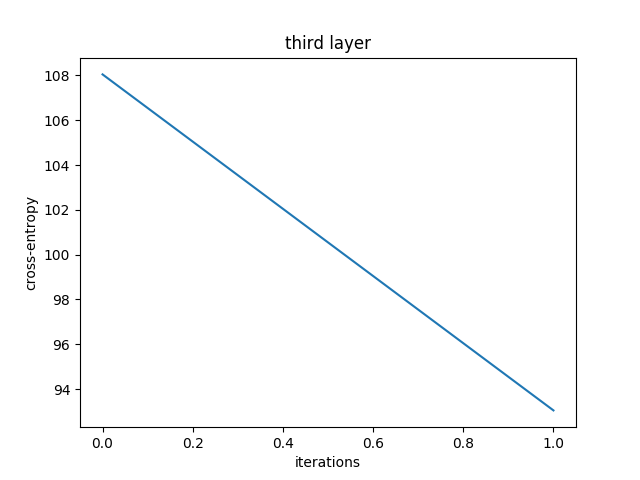
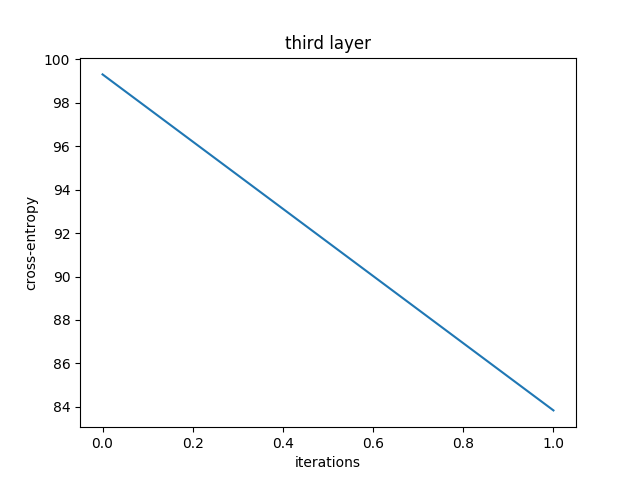
almost works i think

Changed region(s): [[0.0625, 0.0938, 0.125, 0.625], [0.0625, 0.6562, 0.125, 0.875]]

diff --git a/project_2/src/part_b/main.py b/project_2/src/part_b/main.py
@@ -27,7 +27,7 @@ trX, trY = trX[:12000], trY[:12000]
 teX, teY = teX[:2000], teY[:2000]
 
 x = T.fmatrix('x')
-d = T.fmatrix('d')
+d1 = T.fmatrix('d1')
 
 rng = np.random.RandomState(123)
 theano_rng = RandomStreams(rng.randint(2 ** 30))
@@ -55,34 +55,50 @@ b3 = init_bias(400)
 
 b3_prime = init_bias(625)
 W3_prime = W3.transpose()
+#fourth layer
+W4 = init_weights(400, 100)
+b4 = init_bias(100)
+
+b4_prime = init_bias(400)
+W4_prime = W4.transpose()
 #output
-W_end = init_weights(900, 10)
-b_end = init_bias(10)
+W_ffn = init_weights(100, 10)
+b_ffn = init_bias(10)
 
 print("lmao familicious fam")
 
-#tilde_x = theano_rng.binomial(size=x.shape, n=1, p=1 - corruption_level,
-#                              dtype=theano.config.floatX)*x
+tilde_x = theano_rng.binomial(size=x.shape, n=1, p=1 - corruption_level,
+                              dtype=theano.config.floatX)*x
 y1 = T.nnet.sigmoid(T.dot(x, W1) + b1)
 z1_1 = T.nnet.sigmoid(T.dot(y1, W1_prime) + b1_prime)
 cost1 = - T.mean(T.sum(x * T.log(z1_1) + (1 - x) * T.log(1 - z1_1), axis=1))
 
 yy1 = T.fmatrix('yy1')
-#tilde_y1 = theano_rng.binomial(size=yy1.shape, n=1, p=1 - corruption_level,
-#                              dtype=theano.config.floatX)*yy1
-y2 = T.nnet.sigmoid(T.dot(yy1, W2) + b2)
+tilde_y1 = theano_rng.binomial(size=yy1.shape, n=1, p=1 - corruption_level,
+                              dtype=theano.config.floatX)*yy1
+y2 = T.nnet.sigmoid(T.dot(tilde_y1, W2) + b2)
 z2_2 = T.nnet.sigmoid(T.dot(y2, W2_prime) + b2_prime)
 z1_2 = T.nnet.sigmoid(T.dot(z2_2, W1_prime) + b1_prime)
 cost2 = - T.mean(T.sum(x * T.log(z1_2) + (1 - x) * T.log(1 - z1_2), axis=1))
 
 yy2 = T.fmatrix('yy2')
-#tilde_y2 = theano_rng.binomial(size=yy2.shape, n=1, p=1 - corruption_level,
-#                              dtype=theano.config.floatX)*yy2
-y3 = T.nnet.sigmoid(T.dot(yy2, W3) + b3)
+tilde_y2 = theano_rng.binomial(size=yy2.shape, n=1, p=1 - corruption_level,
+                              dtype=theano.config.floatX)*yy2
+y3 = T.nnet.sigmoid(T.dot(tilde_y2, W3) + b3)
 z3_3 = T.nnet.sigmoid(T.dot(y3, W3_prime) + b3_prime)
 z2_3 = T.nnet.sigmoid(T.dot(z3_3, W2_prime) + b2_prime)
 z1_3 = T.nnet.sigmoid(T.dot(z2_3, W1_prime) + b1_prime)
 cost3 = - T.mean(T.sum(x * T.log(z1_3) + (1 - x) * T.log(1 - z1_3), axis=1))
+
+yy3 = T.fmatrix('yy3')
+tilde_y3 = theano_rng.binomial(size=yy3.shape, n=1, p=1 - corruption_level,
+                              dtype=theano.config.floatX)*yy3
+y4 = T.nnet.sigmoid(T.dot(tilde_y3, W4) + b4)
+z4_4 = T.nnet.sigmoid(T.dot(y4, W4_prime) + b4_prime)
+z3_4 = T.nnet.sigmoid(T.dot(z4_4, W3_prime) + b3_prime)
+z2_4 = T.nnet.sigmoid(T.dot(z3_4, W2_prime) + b2_prime)
+z1_4 = T.nnet.sigmoid(T.dot(z2_4, W1_prime) + b1_prime)
+cost4 = - T.mean(T.sum(x * T.log(z1_4) + (1 - x) * T.log(1 - z1_4), axis=1))
 
 #first layer
 params1 = [W1, b1, b1_prime]
@@ -108,19 +124,26 @@ updates3 = [(param3, param3 - learning_rate * grad3)
 train_da3 = theano.function(inputs=[x, yy2], outputs = cost3, updates = updates3, allow_input_downcast = True)
 test_da3 = theano.function(inputs=[yy2], outputs = [y3, z1_3], updates = None, allow_input_downcast = True)
 
+#fourth layer
+params4 = [W4, b4, b4_prime]
+grads4 = T.grad(cost4, params4)
+updates4 = [(param4, param4 - learning_rate * grad4)
+           for param4, grad4 in zip(params4, grads4)]
+train_da4 = theano.function(inputs=[x, yy3], outputs = cost4, updates = updates4, allow_input_downcast = True)
+test_da4 = theano.function(inputs=[yy3], outputs = [y4, z1_4], updates = None, allow_input_downcast = True)
 
+#softmax layer
+yy4 = T.fmatrix('yy4')
+p_y_ffn = T.nnet.softmax(T.dot(yy4, W_ffn)+b_ffn)
+y_ffn = T.argmax(p_y_ffn, axis=1)
+cost_ffn = T.mean(T.nnet.categorical_crossentropy(p_y_ffn, d1))
+params_ffn = [W_ffn, b_ffn]
+grads_ffn = T.grad(cost_ffn, params_ffn)
+updates_ffn = [(param_ffn, param_ffn - learning_rate * grad_ffn)
+            for param_ffn, grad_ffn in zip(params_ffn, grads_ffn)]
+train_ffn = theano.function(inputs=[x, d1], outputs = cost_ffn, updates = updates_ffn, allow_input_downcast = True)
+test_ffn = theano.function(inputs=[x], outputs = y_ffn, allow_input_downcast=True)
 
-# p_y2_ffn = T.nnet.softmax(T.dot(y1, W_end)+b_end)
-# y2_ffn = T.argmax(p_y2_ffn, axis=1)
-# cost2_ffn = T.mean(T.nnet.categorical_crossentropy(p_y2_ffn, d))
-# params2_ffn = [W1, b1, b1_prime]
-# grads2_ffn = T.grad(cost2_ffn, params2_ffn)
-# updates2_ffn = [(param2_ffn, param2_ffn - learning_rate * grad2_ffn)
-#            for param2_ffn, grad2_ffn in zip(params2_ffn, grads2_ffn)]
-# train_ffn = theano.function(inputs=[x, d1], outputs = cost2_ffn, updates = updates2_ffn, allow_input_downcast = True)
-# test_ffn = theano.function(inputs=[x], outputs = y2_ffn, allow_input_downcast=True)
-
-tilde_trX = T.fmatrix('tilde_trX')
 print('training dae1 ...')
 d1 = []
 for epoch in range(training_epochs):
@@ -128,9 +151,7 @@ for epoch in range(training_epochs):
     # go through trainng set
     c = []
     for start, end in zip(range(0, len(trX), batch_size), range(batch_size, len(trX), batch_size)):
-        tilde_trX = theano_rng.binomial(size=trX[start:end].shape, n=1, p=1 - corruption_level,
-                                     dtype=theano.config.floatX)*trX[start:end]
-        cost = train_da1(tilde_trX[start:end])
+        cost = train_da1(trX[start:end])
         c.append(cost)
     d1.append(np.mean(c, dtype='float64'))
     print(d[epoch])
@@ -160,6 +181,31 @@ for epoch in range(training_epochs):
     d3.append(np.mean(c, dtype='float64'))
     print(d[epoch])
 
+print('training dae4 ...')
+d4 = []
+for epoch in range(training_epochs):
+    # go through trainng set
+    c = []
+    for start, end in zip(range(0, len(trX), batch_size), range(batch_size, len(trX), batch_size)):
+        yy1, _ = test_da1(trX[start:end])
+        yy2, _ = test_da2(yy1)
+        yy3, _ = test_da2(yy2)
+        cost = train_da4(trX[start:end], yy3)
+        c.append(cost)
+    d4.append(np.mean(c, dtype='float64'))
+    print(d[epoch])
+#softmax
+print('\ntraining ffn ...')
+testAccuracy = []
+trainCost = []
+for epoch in range(training_epochs):
+        # go through trainng set
+        for start, end in zip(range(0, len(trX), batch_size), range(batch_size, len(trX), batch_size)):
+            cost = train_ffn(trX[start:end], trY[start:end])
+        testAccuracy.append(np.mean(np.argmax(teY, axis=1) == test_ffn(teX)))
+        trainCost.append(cost/(len(trX) // batch_size))
+        if epoch%100 == 0:
+        	print(testAccuracy[epoch])
 #learning curves
 pylab.figure()
 pylab.plot(range(training_epochs), d1)
@@ -182,96 +228,91 @@ pylab.ylabel('cross-entropy')
 pylab.title('third layer')
 pylab.savefig('thirdLayer')
 
+pylab.figure()
+pylab.plot(range(training_epochs), testAccuracy)
+pylab.xlabel('iterations')
+pylab.ylabel('test accuracy')
+pylab.title('test accuracy')
+pylab.savefig('testAcc')
+
+pylab.figure()
+pylab.plot(range(training_epochs), trainCost)
+pylab.xlabel('iterations')
+pylab.ylabel('training cost')
+pylab.title('training cost')
+pylab.savefig('trainC')
+
 #weights
 w1 = W1.get_value()
-pylab.figure()
+pylab.figure('first layer weights')
 pylab.gray()
 for i in range(100):
     pylab.subplot(10, 10, i+1); pylab.axis('off'); pylab.imshow(w1[:,i].reshape(28,28))
-pylab.title('first layer weights')
+
 pylab.savefig('firstLayerWeights')
 
-# w2 = W2.get_value()
-# pylab.figure()
-# pylab.gray()
-# for i in range(100):
-#     pylab.subplot(10, 10, i+1); pylab.axis('off'); pylab.imshow(w2[:,i].reshape(28,28))
-# pylab.title('second layer weights')
-# pylab.savefig('secondLayerWeights')
-#
-# w3 = W3.get_value()
-# pylab.figure()
-# pylab.gray()
-# for i in range(100):
-#     pylab.subplot(10, 10, i+1); pylab.axis('off'); pylab.imshow(w3[:,i].reshape(28,28))
-# pylab.title('third layer weights')
-# pylab.savefig('thirdLayerWeights')
+w2 = W2.get_value()
+pylab.figure('second layer weights')
+pylab.gray()
+for i in range(100):
+    pylab.subplot(10, 10, i+1); pylab.axis('off'); pylab.imshow(w2[:,i].reshape(30,30))
+pylab.savefig('secondLayerWeights')
+
+w3 = W3.get_value()
+pylab.figure('third layer weights')
+pylab.gray()
+for i in range(100):
+    pylab.subplot(10, 10, i+1); pylab.axis('off'); pylab.imshow(w3[:,i].reshape(25,25))
+
+pylab.savefig('thirdLayerWeights')
 
 #reconstructed images
-pylab.figure()
+pylab.figure('original images')
 pylab.gray()
 for i in range(100):
     pylab.subplot(10, 10, i+1); pylab.axis('off'); pylab.imshow(teX[i,:].reshape(28,28))
-pylab.title('input image first layer')
-pylab.savefig('figure_8.3c_3.png')
+
+pylab.savefig('Inp_image_original')
 yy1, zz1 = test_da1(teX[:100])
 yy2, zz2 = test_da2(yy1)
 yy3, zz3 = test_da3(yy2)
 
-pylab.figure()
+pylab.figure('reconstructed image first layer')
 pylab.gray()
 for i in range(100):
-    # x = np.reshape(teX[i], (1, 784))
-    # print("shapes boi: ")
-    # print(x.shape)
-    # print(teX.shape)
-    # tilde_x = theano_rng.binomial(size=x.shape, n=1, p=1 - corruption_level, dtype=theano.config.floatX)*x
-
     pylab.subplot(10, 10, i+1); pylab.axis('off'); pylab.imshow(zz1[i,:].reshape(28,28))
-pylab.savefig('reconstructed image first layer')
+pylab.savefig('Inp_image_firstLayer')
 
-pylab.figure()
+pylab.figure('reconstructed image second layer')
 pylab.gray()
 for i in range(100):
-
     pylab.subplot(10, 10, i+1); pylab.axis('off'); pylab.imshow(zz2[i,:].reshape(28,28))
-pylab.savefig('reconstructed image second layer')
+pylab.savefig('Inp_image_secondLayer')
 
-pylab.figure()
+pylab.figure('reconstructed image third layer')
 pylab.gray()
 for i in range(100):
 
     pylab.subplot(10, 10, i+1); pylab.axis('off'); pylab.imshow(zz3[i,:].reshape(28,28))
-pylab.savefig('reconstructed image third layer')
 
+pylab.savefig('Inp_image_thirdLayer')
+
+pylab.figure('first hidden activation')
+pylab.gray()
+for i in range(100):
+    pylab.subplot(10, 10, i+1); pylab.axis('off'); pylab.imshow(yy1[i,:].reshape(30,30))
+pylab.savefig('activation_firstLayer')
+
+pylab.figure('second hidden activation')
+pylab.gray()
+for i in range(100):
+    pylab.subplot(10, 10, i+1); pylab.axis('off'); pylab.imshow(yy2[i,:].reshape(25,25))
+pylab.savefig('activation_secondLayer')
+
+pylab.figure('third hidden activation')
+pylab.gray()
+for i in range(100):
+
+    pylab.subplot(10, 10, i+1); pylab.axis('off'); pylab.imshow(yy3[i,:].reshape(20,20))
+pylab.savefig('activation_thirdLayer')
 pylab.show()
-
-# print('\ntraining ffn ...')
-# d_ffn, a = [], []
-# for epoch in range(training_epochs):
-#     # go through trainng set
-#     c = []
-#     for start, end in zip(range(0, len(trX), batch_size), range(batch_size, len(trX), batch_size)):
-#         c.append(train_ffn(trX[start:end], trY[start:end]))
-#     d_ffn.append(np.mean(c, dtype='float64'))
-#     a.append(np.mean(np.argmax(teY, axis=1) == test_ffn(teX)))
-#     print(a[epoch])
-#
-# pylab.figure()
-# pylab.plot(range(training_epochs), d_ffn)
-# pylab.xlabel('iterations')
-# pylab.ylabel('cross-entropy')
-# pylab.savefig('figure_2b_3.png')
-#
-# pylab.figure()
-# pylab.plot(range(training_epochs), a)
-# pylab.xlabel('iterations')
-# pylab.ylabel('test accuracy')
-# pylab.savefig('figure_2b_4.png')
-# pylab.show()
-#
-# w_end = W_end.get_value()
-# pylab.figure()
-# pylab.gray()
-# pylab.axis('off'); pylab.imshow(w_end)
-# pylab.savefig('figure_2b_5.png')

diff --git a/project_2/src/part_a/main.py b/project_2/src/part_a/main.py
@@ -227,7 +227,7 @@ pylab.figure()
 pylab.gray()
 for i in range(num_filters1):
     pylab.subplot(5, 5, i+1); pylab.axis('off'); pylab.imshow(w[i,:,:,:].reshape(9,9))
-#pylab.title('filters learned')
+pylab.title('filters learned')
 pylab.savefig('filtersLearned')
 
 ind = np.random.randint(low=0, high=2000)
@@ -236,35 +236,35 @@ convolved, pooled, convolved2, pooled2 = test(teX[ind:ind+1,:])
 pylab.figure()
 pylab.gray()
 pylab.axis('off'); pylab.imshow(teX[ind,:].reshape(28,28))
-#pylab.title('input image')
+pylab.title('input image')
 pylab.savefig('inputImage')
 
 pylab.figure()
 pylab.gray()
 for i in range(num_filters1):
     pylab.subplot(5, 5, i+1); pylab.axis('off'); pylab.imshow(convolved[0,i,:].reshape(20,20))
-#pylab.title('convolved feature maps')
+pylab.title('first convolved feature maps')
 pylab.savefig('1stConv_layer')
 
 pylab.figure()
 pylab.gray()
 for i in range(5):
     pylab.subplot(5, 5, i+1); pylab.axis('off'); pylab.imshow(pooled[0,i,:].reshape(10,10))
-#pylab.title('pooled feature maps')
+pylab.title('first pooled feature maps')
 pylab.savefig('1stPool_layer')
 
 pylab.figure()
 pylab.gray()
 for i in range(num_filters2):
     pylab.subplot(5, 5, i+1); pylab.axis('off'); pylab.imshow(convolved2[0,i,:].reshape(6,6))
-#pylab.title('convolved feature maps')
 
+pylab.title('second convolved feature maps')
 pylab.savefig('2stConv_layer')
 pylab.figure()
 pylab.gray()
 for i in range(5):
     pylab.subplot(5, 5, i+1); pylab.axis('off'); pylab.imshow(pooled2[0,i,:].reshape(3,3))
-#pylab.title('pooled feature maps')
+pylab.title('second pooled feature maps')
 pylab.savefig('2stPool_layer_SGD')
 
 pylab.show()
